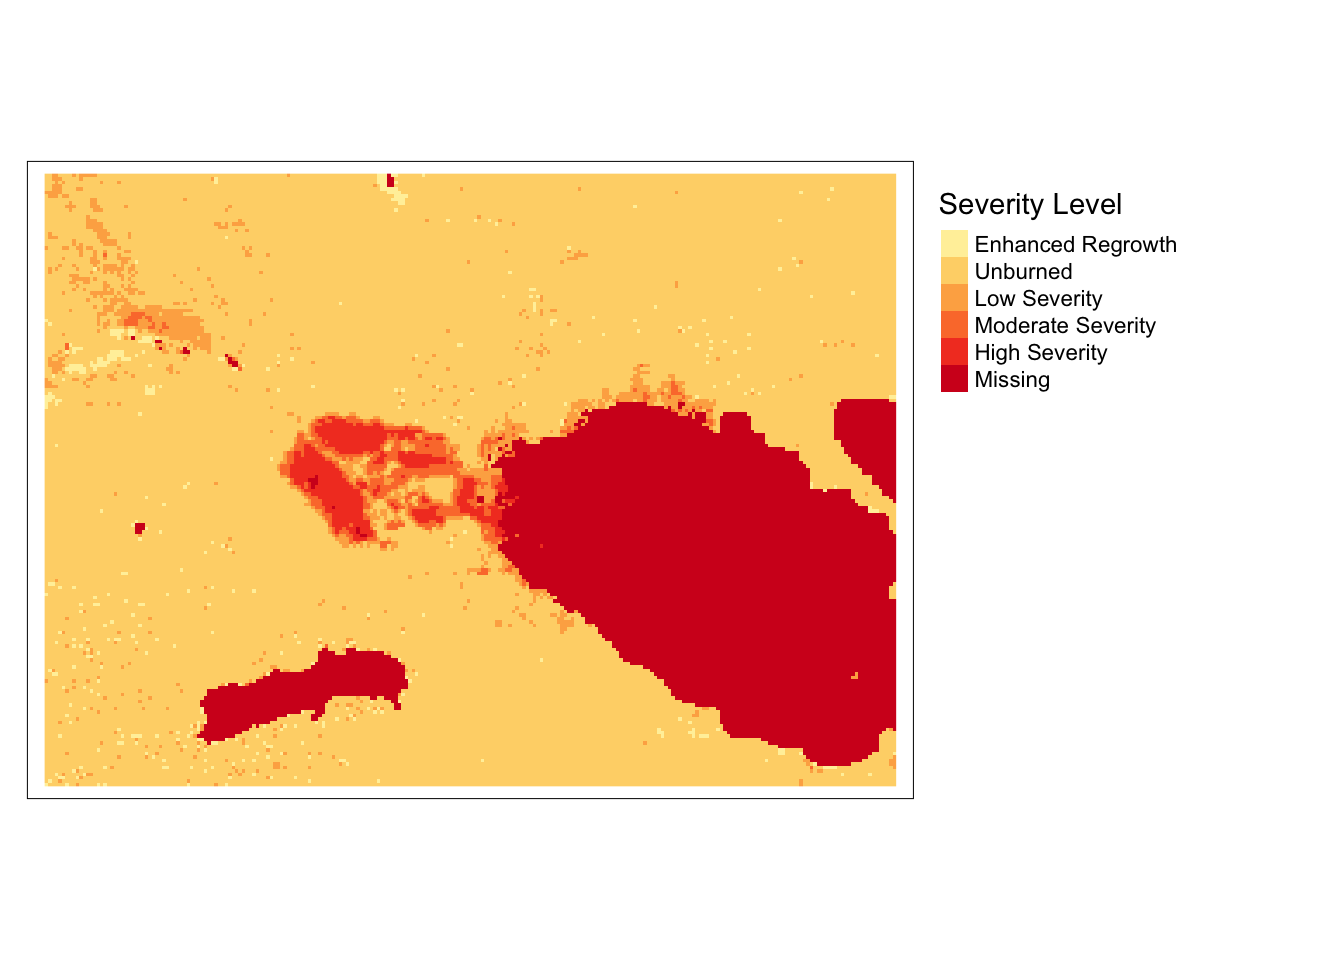
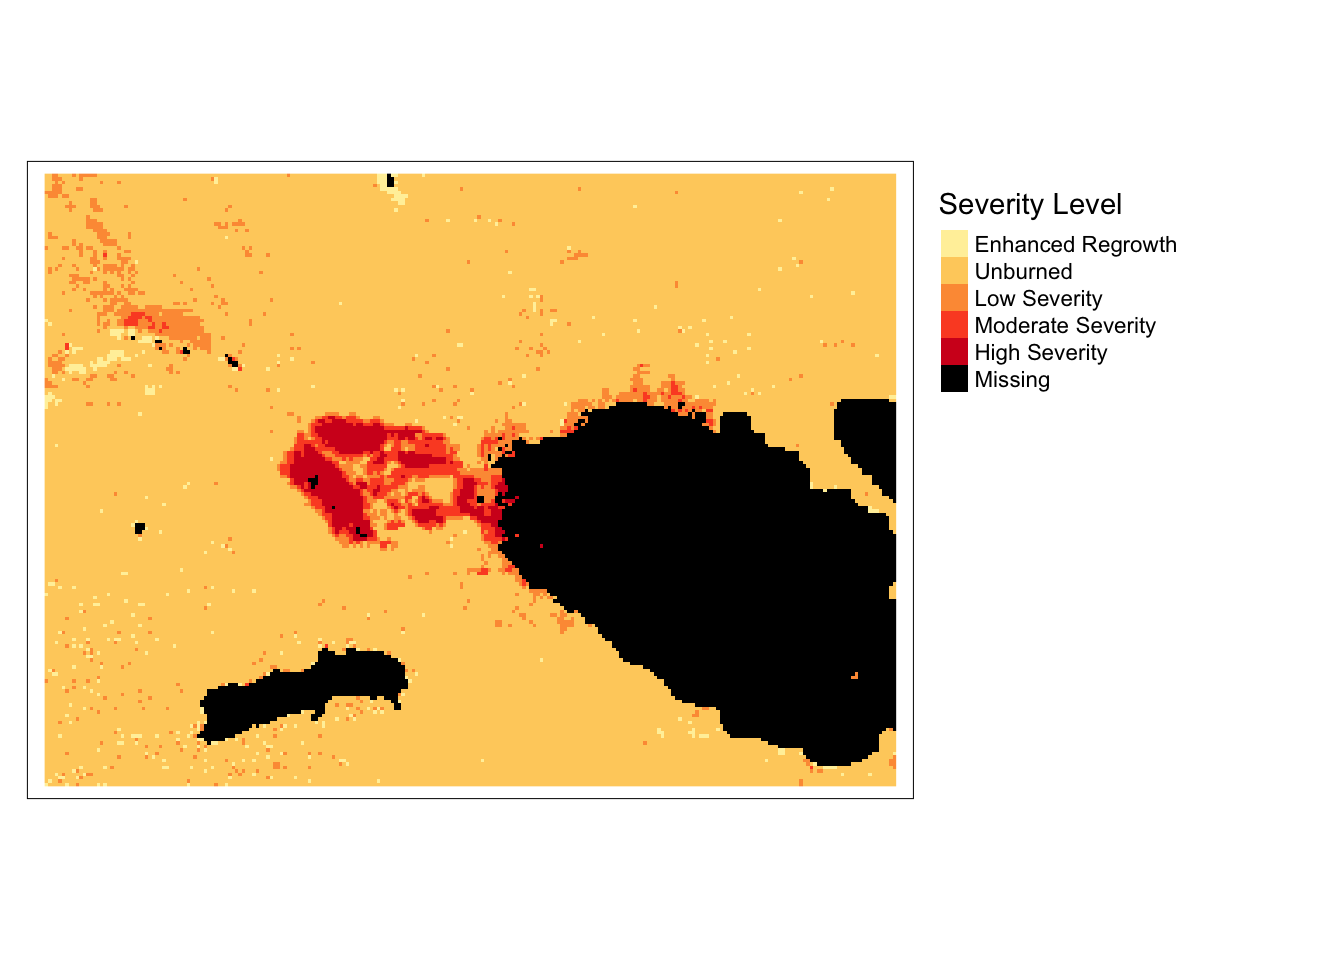
Render website

diff --git a/docs/course-materials/discussions/answer-keys/week6-discussion-answerKey.html b/docs/course-materials/discussions/answer-keys/week6-discussion-answerKey.html
@@ -7,7 +7,7 @@
 <meta name="viewport" content="width=device-width, initial-scale=1.0, user-scalable=yes">
 
 <meta name="author" content="Alessandra Vidal Meza">
-<meta name="dcterms.date" content="2024-11-04">
+<meta name="dcterms.date" content="2024-11-05">
 
 <title>Week 6: Discussion Section - Answer Key</title>
 <style>
@@ -211,7 +211,7 @@ pre > code.sourceCode > span > a:first-child::before { text-decoration: underlin
       <div>
       <div class="quarto-title-meta-heading">Published</div>
       <div class="quarto-title-meta-contents">
-        <p class="date">November 4, 2024</p>
+        <p class="date">November 5, 2024</p>
       </div>
     </div>
     
@@ -438,8 +438,7 @@ pre > code.sourceCode > span > a:first-child::before { text-decoration: underlin
 <span id="cb15-12"><a href="#cb15-12" aria-hidden="true" tabindex="-1"></a><span class="co"># Use reclassification matrix to reclassify dNBR raster</span></span>
 <span id="cb15-13"><a href="#cb15-13" aria-hidden="true" tabindex="-1"></a>reclassified <span class="ot">&lt;-</span> <span class="fu">classify</span>(diff_nbr, <span class="at">rcl =</span> rcl)</span>
 <span id="cb15-14"><a href="#cb15-14" aria-hidden="true" tabindex="-1"></a></span>
-<span id="cb15-15"><a href="#cb15-15" aria-hidden="true" tabindex="-1"></a><span class="co"># Change reclassified values into factors</span></span>
-<span id="cb15-16"><a href="#cb15-16" aria-hidden="true" tabindex="-1"></a><span class="fu">values</span>(reclassified) <span class="ot">&lt;-</span> <span class="fu">as.factor</span>(<span class="fu">values</span>(reclassified))</span></code><button title="Copy to Clipboard" class="code-copy-button"><i class="bi"></i></button></pre></div>
+<span id="cb15-15"><a href="#cb15-15" aria-hidden="true" tabindex="-1"></a>reclassified[<span class="fu">is.nan</span>(reclassified)] <span class="ot">&lt;-</span> <span class="cn">NA</span></span></code><button title="Copy to Clipboard" class="code-copy-button"><i class="bi"></i></button></pre></div>
 </div>
 <div class="cell">
 <div class="sourceCode cell-code" id="cb16"><pre class="sourceCode r code-with-copy"><code class="sourceCode r"><span id="cb16-1"><a href="#cb16-1" aria-hidden="true" tabindex="-1"></a><span class="fu">tm_shape</span>(reclassified) <span class="sc">+</span></span>

diff --git a/docs/course-materials/week6.html b/docs/course-materials/week6.html
@@ -225,7 +225,7 @@ ul.task-list li input[type="checkbox"] {
 </tr>
 <tr class="odd">
 <td><i class="fa-solid fa-comments" title="two speech bubbles" aria-label="comments"></i> Discussion</td>
-<td>Working with false color images (<em>Answer Key</em>) <!--[Working with false color images](discussions/week6-discussion.qmd){target="_blank"} ([*Answer Key*](discussions/answer-keys/week6-discussion-answerKey.qmd){target="_blank"})--></td>
+<td><a href="../course-materials/discussions/week6-discussion.html" target="_blank">Working with false color images</a> (<a href="../course-materials/discussions/answer-keys/week6-discussion-answerKey.html" target="_blank"><em>Answer Key</em></a>)</td>
 </tr>
 </tbody>
 </table>
